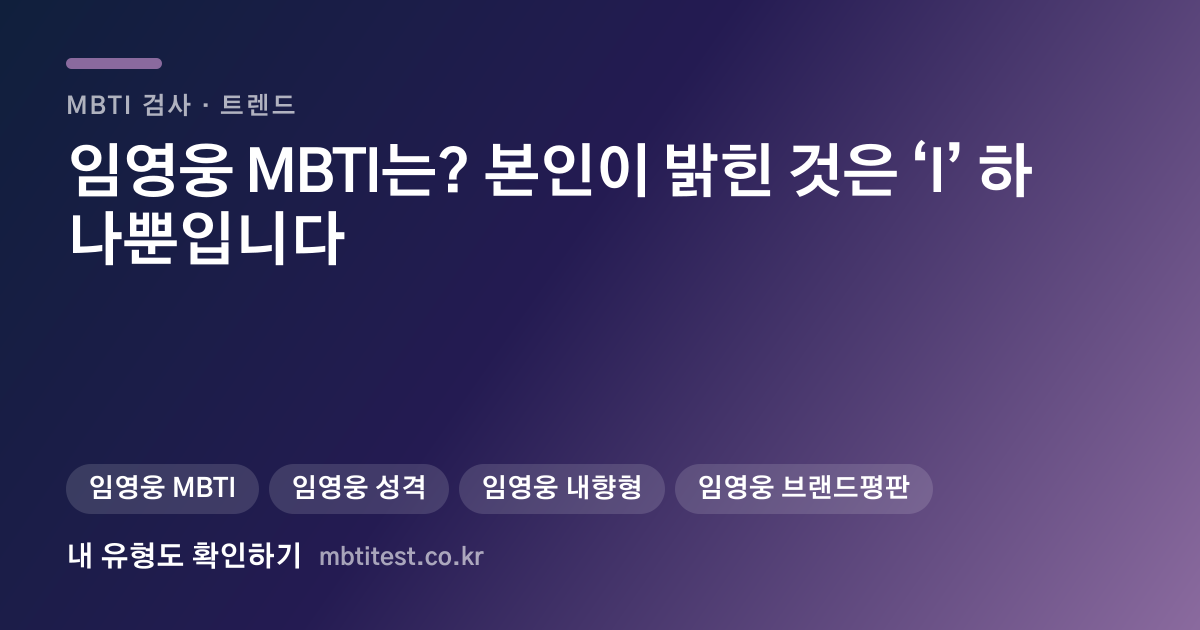
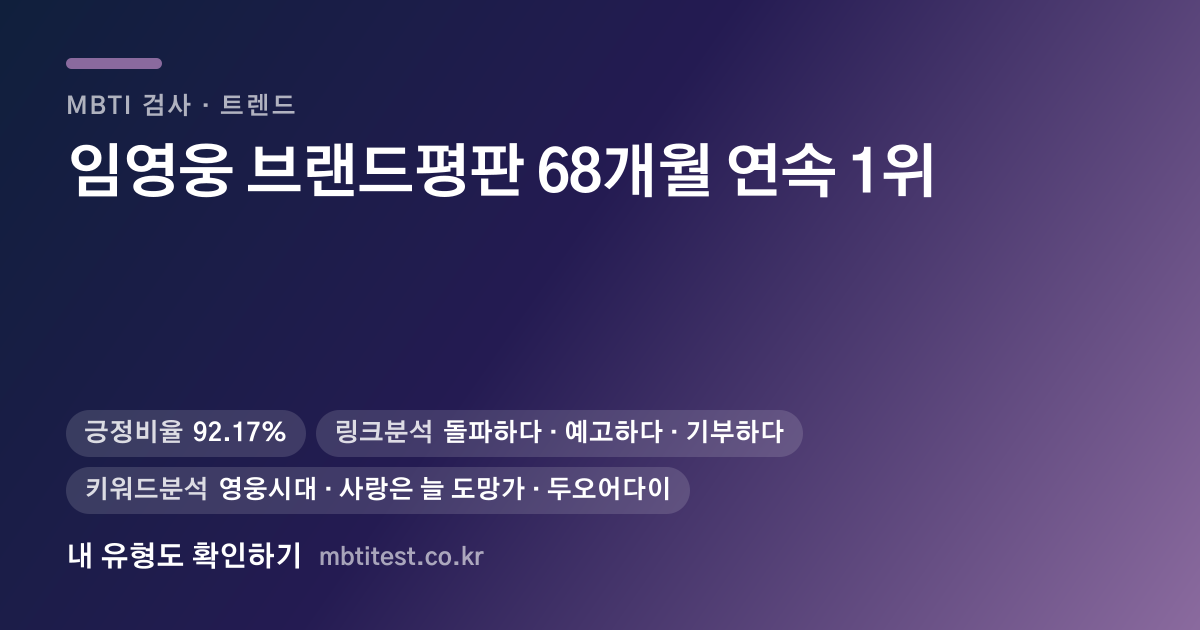
Rebuild the Lim Young-woong post around what people actually search
DataLab settles an argument I had been losing by guessing. Against 임영웅
at 100 for readers over fifty, every sub-topic is small: 콘서트 6.2,
유튜브 2.8, 팬카페 2.3, and 임영웅 mbti — the angle this post was titled on
— is 0.01. Sixteen sub-keywords together come to 16.4.

So this does not become several thin posts. Two pages about the same person
would compete for the one query that matters. The existing post absorbs the
material instead: the 68-month run at the top of the trot reputation chart,
the 92.17% positive share, the fact that the fandom's name outranks his own
in the keyword analysis, the third place among advertising models.

MBTI stays, as one section rather than the headline. It is still the honest
answer to anyone who arrives asking — he has said "I" and nothing more — but
it is not what brings them.

The same measurement killed my earlier priority list, which I had built from
reading about what this age group cares about. 치매 자가진단 scored 0.0 after
I called it the largest keyword in the segment; 토정비결 came in at 0.1.
Interests and queries are not the same thing, and only one of them can be
measured.

Changed region(s): [[0.0308, 0.6333, 0.8017, 0.8143], [0.0617, 0.2111, 0.8633, 0.4222]]

diff --git a/lib/celebrity-posts.ts b/lib/celebrity-posts.ts
@@ -215,59 +215,87 @@ export const celebrityPosts: BlogPost[] = [
   {
     slug: "lim-young-woong-mbti",
     category: "트렌드",
-    title: "임영웅 MBTI는? 본인이 밝힌 것은 ‘I’ 하나뿐입니다",
+    title: "임영웅 브랜드평판 68개월 연속 1위 — 숫자로 본 기록",
     description:
-      "임영웅의 MBTI 네 글자는 공개된 적이 없습니다. 본인이 직접 말한 내향형(I) 발언과 2026년 9월 광고모델 브랜드평판 3위 기록을 원출처로 정리했습니다.",
-    keywords: ["임영웅 MBTI", "임영웅 성격", "임영웅 내향형", "임영웅 브랜드평판", "트로트 가수 MBTI"],
-    readTime: "약 5분",
+      "임영웅이 트로트 가수 브랜드평판에서 68개월 연속 1위를 지켰습니다. 긍정비율과 연관 키워드, 광고모델 순위, 본인이 밝힌 성향까지 공개된 자료로 정리했습니다.",
+    keywords: ["임영웅", "임영웅 브랜드평판", "임영웅 순위", "임영웅 인기", "임영웅 MBTI", "트로트 1위"],
+    readTime: "약 7분",
     publishedAt: septReputationAt,
     updatedAt: septReputationAt,
     intro: [
-      "임영웅의 MBTI 네 글자는 공개된 적이 없습니다. 본인이 직접 말한 것은 내향형, 즉 ‘I’ 라는 한 글자뿐입니다. 인터넷에 도는 네 글자 조합은 팬과 커뮤니티의 추측입니다.",
-      "임영웅은 2026년 9월 광고모델 브랜드평판에서 3위에 올랐습니다. 같은 조사에서 1위는 방탄소년단, 2위는 리센느였습니다.",
+      "임영웅은 트로트 가수 브랜드평판에서 68개월 연속 1위를 지키고 있습니다. 5년 8개월 동안 한 번도 자리를 내주지 않았다는 뜻입니다.",
+      "긍정비율 92.17%, 연관 키워드 1순위는 개인 이름이 아니라 팬덤 이름인 ‘영웅시대’ 였습니다. 광고모델 부문에서도 방탄소년단·리센느에 이어 3위입니다.",
+      "이 글은 공개된 조사 자료로 확인되는 것만 모았습니다.",
     ],
     sections: [
       {
-        heading: "본인이 말한 것은 ‘I’ 까지입니다",
+        heading: "68개월 연속 1위라는 숫자",
         paragraphs: [
-          "임영웅은 예능 출연을 두고 제작진과 만난 자리에서 자신이 MBTI 의 ‘I’ 라서 출연이 많이 망설여졌다는 취지로 이야기했습니다. 2023년 5월 보도로 남아 있는 발언입니다.",
-          "여기서 확인되는 것은 에너지 방향(E·I) 한 축뿐입니다. 나머지 세 축(S·N, T·F, J·P)에 대해서는 본인이 밝힌 자료가 없습니다.",
+          "한국기업평판연구소의 2026년 8월 트로트 가수 브랜드평판에서 임영웅이 1위에 올랐습니다. 2026년 7월 23일부터 8월 23일까지 모은 빅데이터 5,491만 건을 분석한 결과입니다.",
+          "68개월은 5년 8개월입니다. 그 사이 트로트 경연 프로그램이 여러 차례 새 얼굴을 배출했고 2위 자리는 여러 번 바뀌었지만 1위는 그대로였습니다.",
+          "같은 달 순위는 1위 임영웅, 2위 박지현, 3위 이찬원, 4위 장한별, 5위 성리 순이었습니다.",
         ],
       },
       {
-        heading: "그럼 검색에 나오는 네 글자는 무엇인가요",
+        heading: "데이터가 말하는 세 가지",
         paragraphs: [
-          "상당수는 팬 투표 사이트나 커뮤니티 글에서 나온 추측입니다. 투표로 모인 숫자는 ‘팬들이 그렇게 생각한다’는 자료이지 본인의 검사 결과가 아닙니다.",
-          "무대 위 모습이나 인터뷰 말투로 유형을 역산하는 글도 많습니다. 무대는 준비된 공연이고 인터뷰는 공적인 자리라, 그 장면만으로 일상의 선호를 판정할 수 없습니다.",
+          "브랜드평판은 음원 순위나 시청률이 아니라 온라인에서 얼마나 이야기되는지를 지수로 만든 값입니다. 그래서 신곡이 없는 달에도 순위가 유지됩니다.",
+        ],
+        bullets: [
+          "긍정비율 — 92.17%",
+          "링크분석 — 돌파하다 · 예고하다 · 기부하다",
+          "키워드분석 — 영웅시대 · 사랑은 늘 도망가 · 두오어다이",
         ],
       },
       {
-        heading: "2026년 9월 광고모델 평판 3위",
+        heading: "팬덤 이름이 본인 이름보다 앞에 옵니다",
         paragraphs: [
-          "한국기업평판연구소의 2026년 9월 광고모델 브랜드평판 분석에서 1위 방탄소년단, 2위 리센느, 3위 임영웅 순으로 나타났습니다. 광고모델 평판은 브랜드가 실제로 기용할 때 참고하는 지표라 팬덤 규모와 호감도가 함께 반영됩니다.",
+          "키워드분석에서 1순위가 ‘영웅시대’ 라는 점은 눈여겨볼 만합니다. 보통 이런 분석에서는 활동명이나 곡 제목이 앞에 오는데, 여기서는 팬덤 이름이 먼저 나왔습니다.",
+          "링크분석의 ‘기부하다’ 도 같은 맥락입니다. 팬덤 단위의 기부 활동이 이름과 함께 따라다닌다는 뜻입니다. 개인의 인기가 아니라 모임의 활동으로 검색이 돌고 있다는 신호입니다.",
         ],
       },
       {
-        heading: "‘I 인데 무대에 선다’는 모순이 아닙니다",
+        heading: "광고모델 평판 3위",
         paragraphs: [
-          "I 는 혼자 있는 시간에서 에너지를 회복한다는 뜻이지, 사람 앞에 서지 못한다는 뜻이 아닙니다. 큰 공연을 끝내고 조용한 시간이 꼭 필요하다면 그것이 I 의 설명에 가깝습니다.",
-          "임영웅 본인의 발언도 ‘출연이 망설여졌다’는 것이지 ‘하지 못한다’가 아니었습니다.",
+          "2026년 9월 광고모델 브랜드평판에서는 1위 방탄소년단, 2위 리센느, 3위 임영웅 순이었습니다. 아이돌 그룹 둘 사이에 솔로 가수가 들어간 자리입니다.",
+          "광고모델 평판은 브랜드가 실제 기용을 검토할 때 참고하는 지표라, 팬덤 규모뿐 아니라 대중 호감도가 함께 반영됩니다.",
+        ],
+      },
+      {
+        heading: "본인이 밝힌 성향은 ‘I’ 한 글자입니다",
+        paragraphs: [
+          "임영웅의 MBTI 네 글자는 공개된 적이 없습니다. 본인이 직접 말한 것은 내향형, 즉 ‘I’ 라는 한 글자뿐입니다. 예능 출연을 두고 제작진과 만난 자리에서 자신이 ‘I’ 라서 출연이 많이 망설여졌다는 취지로 이야기했고, 2023년 5월 보도로 남아 있습니다.",
+          "인터넷에 도는 네 글자 조합은 팬과 커뮤니티의 추측입니다. 투표 사이트의 집계는 ‘팬들이 그렇게 본다’ 는 자료이지 본인의 검사 결과가 아닙니다.",
+          "‘I 인데 무대에 선다’ 는 모순이 아닙니다. I 는 혼자 있는 시간에서 에너지를 회복한다는 뜻이지 사람 앞에 서지 못한다는 뜻이 아닙니다. 큰 공연을 끝내고 조용한 시간이 꼭 필요하다면 그것이 I 의 설명에 가깝습니다.",
+        ],
+      },
+      {
+        heading: "9월 트로트 순위는 언제 나오나요",
+        paragraphs: [
+          "트로트 가수 부문은 매달 23일 무렵 직전 한 달치 데이터로 발표됩니다. 2026년 9월 분석은 9월 말에서 10월 초 사이에 공개될 예정이며, 발표되면 이 글도 갱신합니다.",
         ],
       },
       {
         heading: "이 글의 자료에 대하여",
         paragraphs: [
-          "이 글은 공개된 방송·인터뷰 보도와 검색으로 확인되는 자료를 모아 정리한 것입니다. 소속사 공식 발표가 아닌 항목은 본문에 ‘추정’으로 표시했습니다.",
-          "MBTI 는 자기보고식 검사라 같은 사람도 시기와 상황에 따라 결과가 달라집니다. 공개한 뒤 다시 검사해 바뀐 경우도 많습니다.",
-          "따라서 위 내용은 작성 시점(2026년 9월) 기준이며 지금과 다를 수 있습니다. 새로 확인되는 자료가 있으면 이 글을 고칩니다.",
+          "순위와 수치는 한국기업평판연구소 발표를 보도한 기사에서 옮긴 것입니다. 수집 기간과 데이터 건수를 본문에 함께 적었습니다.",
+          "브랜드평판은 온라인 활동량을 지수화한 지표이며, 가수의 실력이나 인기를 그대로 나타내는 순위가 아닙니다.",
+          "MBTI 는 자기보고식이라 시기에 따라 결과가 달라집니다. 이 글은 작성 시점(2026년 9월) 기준이며 이후 발표로 달라질 수 있습니다.",
         ],
       },
     ],
-    cta,
-    relatedSlugs: ["yoo-jae-suk-mbti", "rescene-mbti", "mbti-e-vs-i"],
+    cta: {
+      eyebrow: "40문항 · 약 4분",
+      title: "나는 어느 쪽일까요",
+      description: "임영웅이 방송에서 밝힌 성향은 ‘I’ 한 글자였습니다. 내 성향은 직접 검사해 확인해 보세요.",
+      href: "/",
+      label: "무료 MBTI 검사 시작하기",
+    },
+    relatedSlugs: ["trot-singer-ranking", "yoo-jae-suk-mbti", "rescene-mbti"],
     sources: [
-      { label: "임영웅 예능 출연 결심 이유 보도 (세계일보, 2023-05-28)", href: "https://m.segye.com/ampView/20230528504892" },
+      { label: "임영웅 2026년 8월 트로트 가수 브랜드평판 1위 보도 (스타뉴스)", href: "https://www.starnewskorea.com/music/2026/08/23/2026082308450343400" },
       { label: "광고모델 2026년 9월 브랜드평판 분석 보도", href: "https://www.dtoday.co.kr/news/articleView.html?idxno=789446" },
+      { label: "임영웅 예능 출연 결심 이유 보도 (세계일보, 2023-05-28)", href: "https://m.segye.com/ampView/20230528504892" },
       { label: "한국기업평판연구소 브랜드평판 랭킹", href: "https://brikorea.com/" },
     ],
   },
